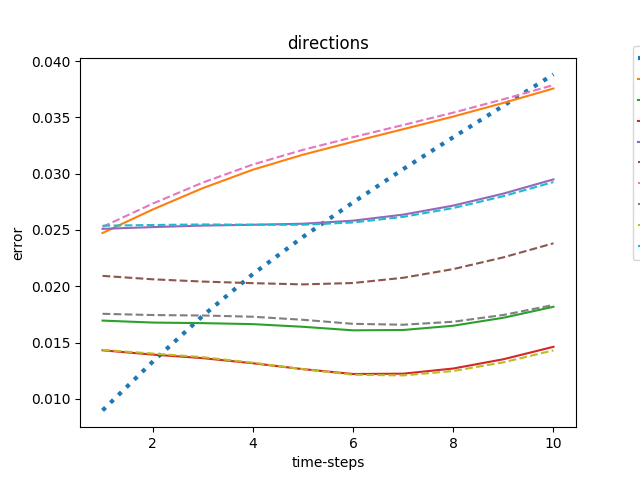
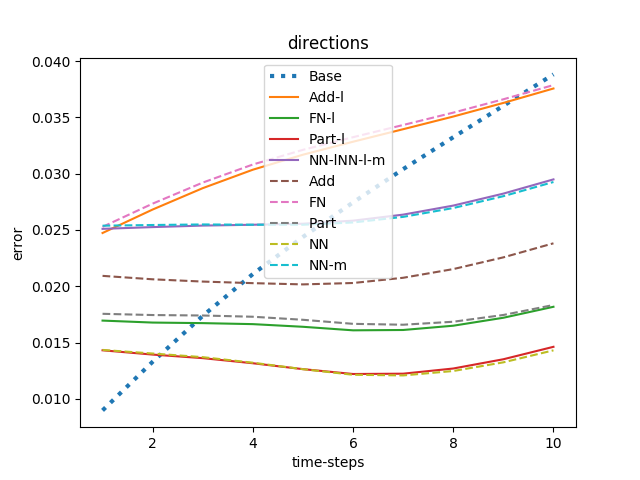
f

Changed region(s): [[0.4062, 0.25, 0.625, 0.5625], [0.4062, 0.125, 0.5312, 0.25], [0.5625, 0.375, 0.5938, 0.4062]]

diff --git a/RNN/utils/metric_baselines.py b/RNN/utils/metric_baselines.py
@@ -146,7 +146,7 @@ def plot_results_npy(from_path, npy_files_dirs, method_names):
 			else:
 				plt.plot(range(1,t+1), np.mean(score, axis=0), label=method_names[i])
 
-		plt.legend(bbox_to_anchor=(1.1, 1.05))
+		plt.legend()
 		plt.xlabel('time-steps')
 		plt.ylabel('error')
 		plt.title(basename)
